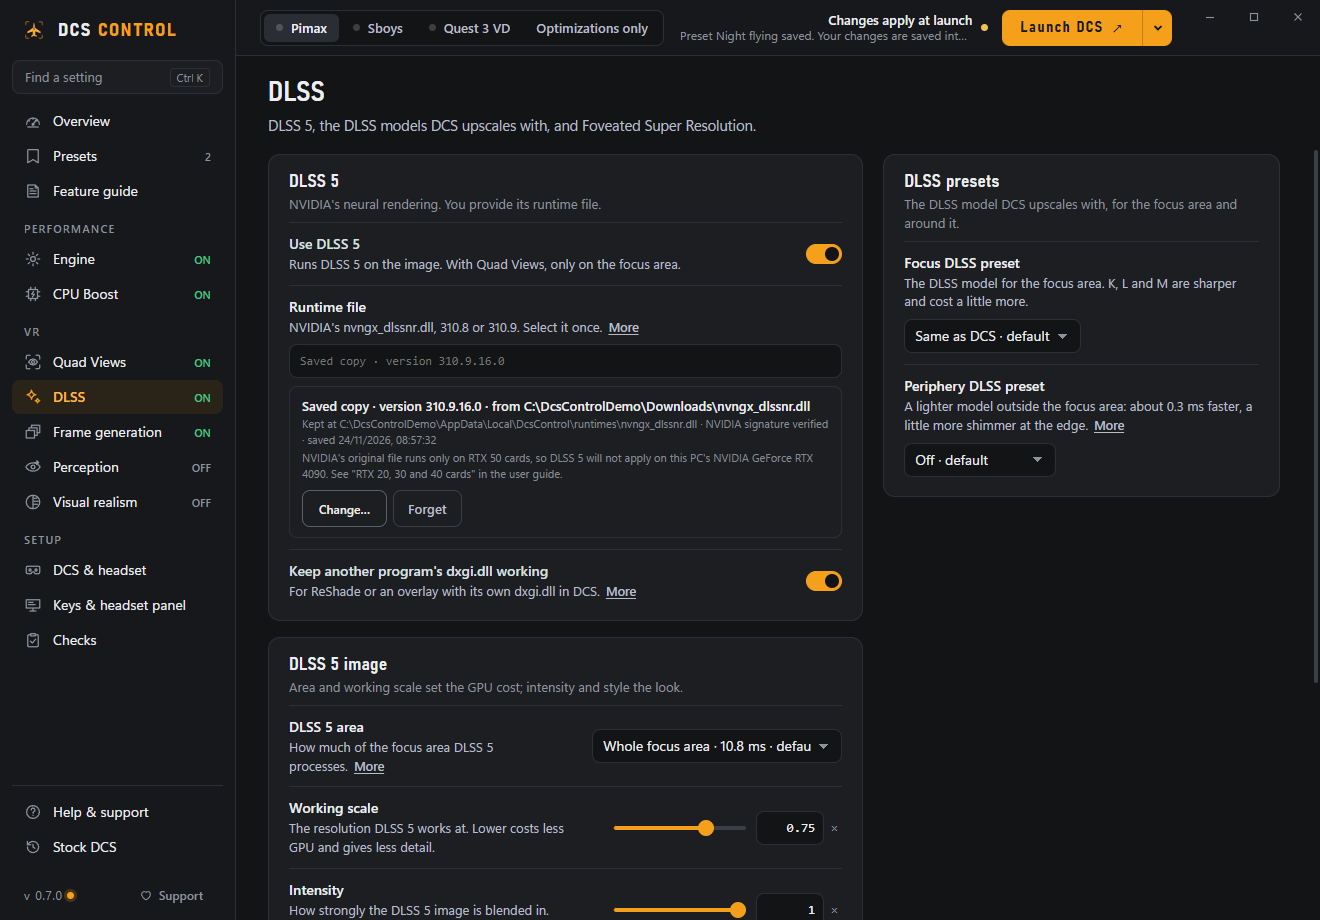
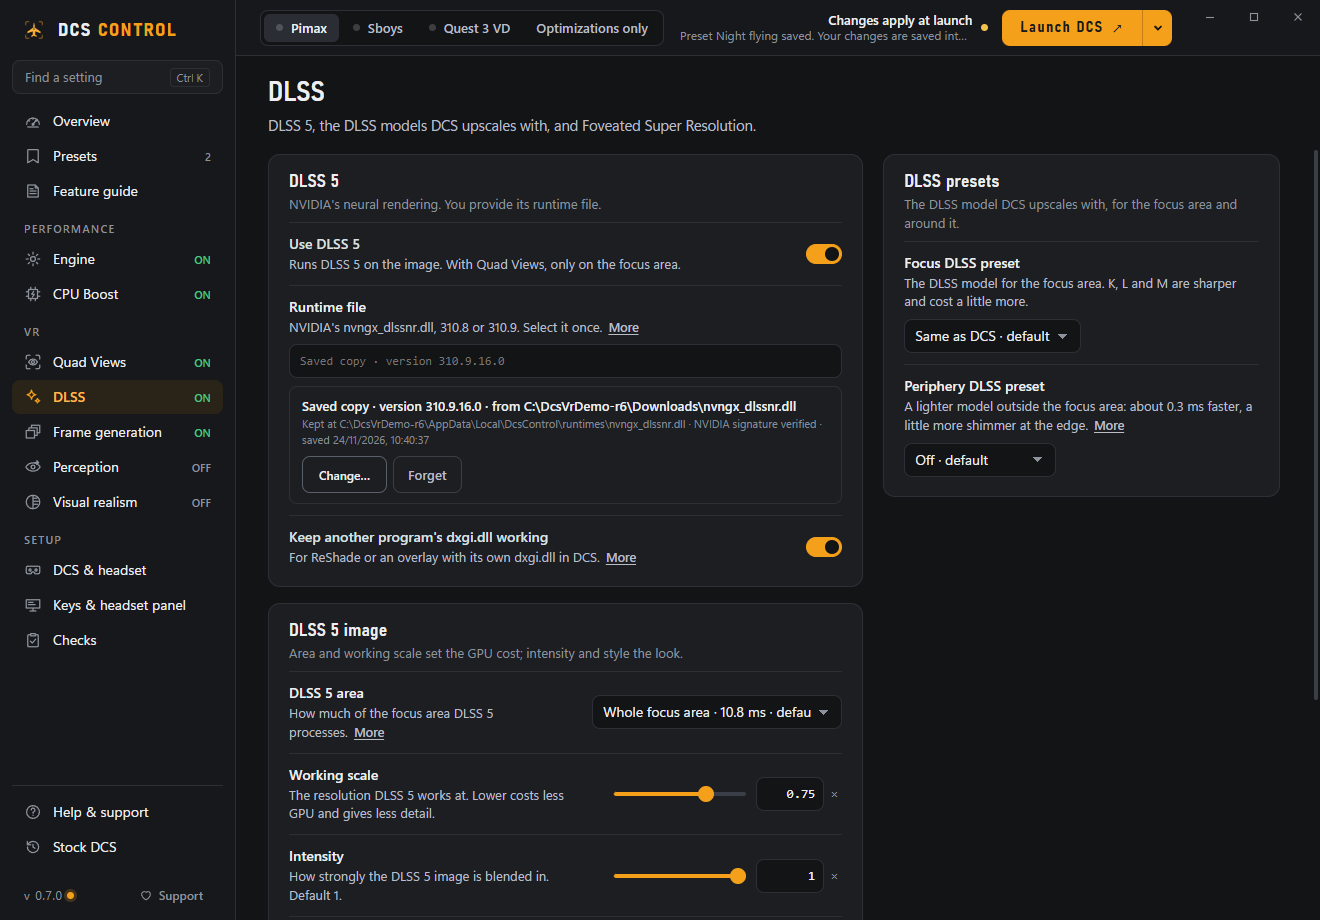
Docs screenshots for 0.7: Perception, Visual realism, Quad Views folds, lower Frame generation; DLSS without "will not apply"
WebVerification: the documentation and video views run on a demo RTX 5080 (the smoke keeps its RTX 4090), the doc
views add five shots, and the video views the 0.7 video's v07-* stills (round 6 list), all off unless
DCSVR_SMOKE_DOC_VIEWS / DCSVR_SMOKE_VIDEO_VIEWS is set. USER_GUIDE.md: image lines for the new shots.

diff --git a/src/DcsVr.App/WebVerification.cs b/src/DcsVr.App/WebVerification.cs
@@ -87,6 +87,8 @@ internal static class WebVerification
             log("Documentation view: " + path);
         }
         controller.Bounds = new System.Drawing.Rectangle(0, 0, 1320, 920); controller.RasterizationScale = 1;
+        // An RTX 50 card, so the DLSS page shows NVIDIA's original runtime as usable (not "will not apply").
+        GpuInfo.Adapters = () => [new(DemoGpu, "NVIDIA", "32.0.15.0")];
         // Pimax Play running; a new profile's default values with every feature checked on the Pimax route (Engine Optimizations too).
         Readiness.ActiveRouteProvider = () => new(null, "Pimax Play is running and SteamVR is not. Use the Pimax route, or start SteamVR first for Sboys.", TrackingKind.Unknown);
         if (neural is not null) await Step("window.dcsUi.saveRuntime("+JsonSerializer.Serialize(neural)+")");
@@ -102,6 +104,13 @@ internal static class WebVerification
         await Shot("quad-views-pimax-play", "foveation", "(b=>{if(b)b.scrollIntoView({block:'center'});})(document.getElementById('pimaxFovea'));");
         await Shot("dlss5-runtime-file", "dlss");
         await Shot("framegen-auto-2x-3x", "framegen");
+        // The lower Frame generation page: Image quality, with the Advanced fold open beside it.
+        await Shot("framegen-image-quality", "framegen", CloseFolds("framegen") + OpenFoldOf("frameGenParallelEyes") + "(s=>{s.scrollTop=s.scrollHeight;})(document.getElementById('scrollArea'));");
+        // Quad Views' folds open: Eye-tracking options at the top, then Hide the focus edge's Fine-tune with Shape and edge.
+        await Shot("quad-views-eye-tracking", "foveation", CloseFolds("foveation") + OpenFoldOf("quadLostGazeEase") + ScrollTo("setting-gaze", "start"));
+        await Shot("quad-views-hide-edge", "foveation", CloseFolds("foveation") + OpenFoldOf("quadGazeGlideMs") + OpenFoldOf("quadRoundFocus") + ScrollTo("setting-quadHideFocusEdge", "start"));
+        await Shot("perception", "pupil", "");
+        await Shot("visual-realism", "visual", "");
         await Shot("engine-optimizations", "engine");
         await Shot("cpu-boost-plan", "boost");
         await Step("window.dcsUi.run('checkReadiness')");
@@ -139,7 +148,7 @@ internal static class WebVerification
         async Task Shot(string name, string? page, string prepare = "")
         {
             if (page is not null) await core.ExecuteScriptAsync("window.dcsUi.navigate("+JsonSerializer.Serialize(page)+");");
-            await core.ExecuteScriptAsync("document.getElementById('toast').hidden=true;document.getElementById('pages')?.scrollTo(0,0);" + prepare);
+            await core.ExecuteScriptAsync("document.getElementById('toast').hidden=true;document.getElementById('scrollArea').scrollTop=0;" + prepare);
             await Task.Delay(300);
             // Always 1920 pixels wide, whatever the desktop's display scaling does to the window's own capture.
             var view = JsonSerializer.Deserialize<double[]>(await core.ExecuteScriptAsync("[innerWidth,innerHeight,devicePixelRatio]"))!;
@@ -148,6 +157,8 @@ internal static class WebVerification
             log($"Video view: {path} ({view[0]} × {view[1]} CSS px)");
         }
         const string Edit = "const edit=(path,value)=>{const f=window.dcsUi.fields.find(x=>x.path===path);if(f.type==='toggle')f.input.checked=value;else f.input.value=value;f.input.dispatchEvent(new Event(f.type==='toggle'||f.type==='select'?'change':'input',{bubbles:true}));};";
+        // An RTX 50 card, so the DLSS page shows NVIDIA's original runtime as usable (not "will not apply").
+        GpuInfo.Adapters = () => [new(DemoGpu, "NVIDIA", "32.0.15.0")];
         controller.Bounds = new System.Drawing.Rectangle(0, 0, 1600, 900);
         var scaled = controller as CoreWebView2Controller; scaled.RasterizationScale = 1.2; scaled.ShouldDetectMonitorScaleChanges = false;
         Readiness.ActiveRouteProvider = () => new(null, "Pimax Play is running and SteamVR is not. Use the Pimax route, or start SteamVR first for Sboys.", TrackingKind.Unknown);
@@ -196,6 +207,7 @@ internal static class WebVerification
         await Shot("v06-visual", "visual");
         await Shot("v06-dlss-periphery", "dlss", "(c=>{if(c)c.scrollIntoView({block:'start'});})(document.getElementById('dlssPresets'));");
         await Step("(()=>{"+Edit+"edit('colorMode','Off');edit('panelGamut',0);edit('gVision',false);edit('peripheryDlssPreset','Off');edit('fpsLimit','Preserve');})()");
+        await Video07(Step, Shot, Edit);
         // The tutorial video (vt-*): DCS & headset with Read settings from this PC, and Guided setup's first step.
         await Shot("vt-setup", "setup");
         await core.ExecuteScriptAsync("window.setupWizard.open(); window.setupWizard.choose({route:'Pimax',features:{quad:true,dlss:true,framegen:true,boost:true}});");
@@ -210,9 +222,88 @@ internal static class WebVerification
         await Step("window.dcsUi.run('refresh',window.dcsUi.draft())");
         await Shot("v-overview-applied", "overview");
         await Shot("v-recovery", "recovery", "(f=>{if(f)f.open=true;})(document.getElementById('originalFiles'));");
+        await Video07Applied(Step, Shot, log);
         await Step("window.dcsUi.run('restore')");
         await Shot("v-recovery-restored", "recovery");
         if (service.Originals.Status() is not { Count: 0, Current: null }) throw new IOException("The video fixture was not restored.");
+    }
+
+    /// <summary>The demo PC's graphics card in the documentation and video views: an RTX 50, where NVIDIA's original DLSS 5
+    /// runtime runs (the smoke itself keeps the verified pipeline's RTX 4090).</summary>
+    private const string DemoGpu = "NVIDIA GeForce RTX 5080";
+    /// <summary>JavaScript: open the folds that hold a setting's row (the setting's own fold first, then any around it).</summary>
+    private static string OpenFoldOf(string path) => "(()=>{const f=window.dcsUi.fields.find(x=>x.path==='"+path+"');for(let b=f.element.closest('details');b;b=b.parentElement.closest('details'))b.open=true;})();";
+    /// <summary>JavaScript: scroll an element into view by id.</summary>
+    private static string ScrollTo(string id, string block = "center") => "(s=>{if(s)s.scrollIntoView({block:'"+block+"'});})(document.getElementById('"+id+"'));";
+    /// <summary>JavaScript: close every fold of a page.</summary>
+    private static string CloseFolds(string page) => "document.querySelectorAll('#page-"+page+" details').forEach(d=>d.open=false);";
+
+    /// <summary>The 0.7 release video's stills (v07-*, artifacts/video/STILLS-TODO.md "0.7 video, round 6"), on the Pimax
+    /// profile with every feature: the new switches and folds, the Quest 3 VD route, then everything put back.</summary>
+    private static async Task Video07(Func<string, Task> step, Func<string, string?, string, Task> shot, string edit)
+    {
+        Task Edits(string calls) => step("(()=>{"+edit+calls+"})()");
+        // Foveated frame generation right under Only when needed, the page scrolled so Method is the first row.
+        await Edits("edit('frameGen','Nvidia');edit('frameGenFactor','Auto');edit('frameGenAdaptiveCadence',true);edit('frameGenFoveated',true);");
+        await shot("v07-framegen-foveated", "framegen", CloseFolds("framegen") + ScrollTo("setting-frameGen", "start"));
+        // Its Advanced fold: Stop generating, Smoothness buffer, Both eyes at once.
+        await shot("v07-framegen-advanced", "framegen", CloseFolds("framegen") + OpenFoldOf("frameGenParallelEyes") + ScrollTo("setting-frameGenParallelEyes"));
+        await Edits("edit('smoothCursor',true);");
+        await shot("v07-framegen-cursor", "framegen", CloseFolds("framegen") + ScrollTo("setting-smoothCursor"));
+        await Edits("edit('smoothCursor',false);");
+        // Quad Views, eye tracked: Hide the focus edge with its Fine-tune fold closed, then open, then Eye-tracking options.
+        await Edits("edit('gaze','EyeTracked');edit('quadHideFocusEdge',true);edit('peripheryStability',true);");
+        await shot("v07-quad-hide-edge", "foveation", CloseFolds("foveation") + ScrollTo("setting-quadHideFocusEdge"));
+        await shot("v07-quad-finetune", "foveation", CloseFolds("foveation") + OpenFoldOf("quadGazeGlideMs") + ScrollTo("setting-quadEdgeMatch"));
+        await shot("v07-quad-eyetracking", "foveation", CloseFolds("foveation") + OpenFoldOf("quadLostGazeEase") + ScrollTo("setting-quadSaccadeTail"));
+        // The Engine page renders again once its status is read: open the fold after that.
+        await step("(()=>{window.dcsUi.navigate('engine');return new Promise(r=>setTimeout(r,900));})()");
+        await shot("v07-engine-gpusavings", null, "setTimeout(()=>{" + OpenFoldOf("engineWaterSkip") + "window.dcsUi.fields.find(x=>x.path==='engineWaterSkip').element.closest('details').scrollIntoView({block:'center'});},120);");
+        await Edits("edit('neuralBrightnessMatch',true);");
+        await shot("v07-dlss-match", "dlss", "(d=>{if(d)d.open=true;})(document.getElementById('neuralAdvanced'));" + ScrollTo("setting-neuralBrightnessMatch"));
+        await Edits("edit('neuralBrightnessMatch',false);edit('foveaSource','Profile');edit('pimaxVerticalOffset',-20);");
+        await shot("v07-quad-vertical-offset", "foveation", CloseFolds("foveation") + ScrollTo("setting-pimaxVerticalOffset"));
+        await Edits("edit('pimaxVerticalOffset',0);edit('foveaSource','PimaxPlay');");
+        // Pimax Play on its Balanced preset (runtime_quadviews_rendering_level 1) for one shot, then the fixture's Custom values again.
+        var pimax = PimaxFovea.SettingsPath; var saved = File.ReadAllText(pimax);
+        File.WriteAllText(pimax, saved.Replace("\"piplay_quadviews_fine_type\":", "\"runtime_quadviews_rendering_level\":1,\"piplay_quadviews_fine_type\":"));
+        await step("window.dcsUi.rereadPimax(false)");
+        await shot("v07-quad-pimax-preset", "foveation", CloseFolds("foveation") + ScrollTo("pimaxFovea"));
+        File.WriteAllText(pimax, saved);
+        await step("window.dcsUi.rereadPimax(false)");
+        // Go back as after an update from 0.6.6 (0.6.7 was never published), without the fixture's newer release.
+        await step("(async()=>{const ui=window.dcsUi;const s=await ui.request('updateStatus',{simulatePrevious:'0.6.6-preview'});ui.updates={...s,update:null};ui.renderUpdates();})()");
+        await shot("v07-support-goback", "support", "window.dcsUi.renderUpdates();");
+        // A DCS stuck in the background, in the top bar of another page.
+        await step("(async()=>{const ui=window.dcsUi;await ui.request('dcsStatus',{simulate:true,stuck:'NoWindow'});await ui.pollDcs();})()");
+        await shot("v07-topbar-end-dcs", "framegen", CloseFolds("framegen"));
+        await step("(async()=>{const ui=window.dcsUi;await ui.request('dcsStatus',{simulate:false});await ui.request('dcsStatus',{stuck:null});await ui.pollDcs();ui.state.dcsRunning=false;ui.refreshWorkflow();})()");
+        // Quest 3 through Virtual Desktop: the route in the top bar, its fixed focus with Hide the focus edge.
+        await step("(()=>{const ui=window.dcsUi;ui.adoptDraft({profile:ui.withFeatures("+JsonData.Serialize(new VrProfile())+",{route:'VirtualDesktop',features:{engine:true,boost:true,quad:true,framegen:true}})});return ui.run('refresh',ui.draft());})()");
+        await shot("v07-vd-overview", "overview", "");
+        await shot("v07-vd-quad", "foveation", CloseFolds("foveation") + ScrollTo("setting-pimaxHorizontalFov"));
+        // Back to the Pimax profile with every feature, as before, for the shots that follow.
+        await step("(()=>{const ui=window.dcsUi;ui.adoptDraft({profile:ui.withFeatures("+JsonData.Serialize(new VrProfile())+",{route:'Pimax',features:{engine:true,boost:true,quad:true,dlss:true,framegen:true}})});return ui.run('refresh',ui.draft());})()");
+        await Edits("edit('depthBoost',true);edit('farDepth',true);edit('peripheryStability',true);edit('fpsLimit','Preserve');");
+    }
+
+    /// <summary>The 0.7 video's stills after Launch DCS (offline): Quad Views with its folds closed while DCS "runs" with
+    /// Live on (LIVE tags), and the Checks "DCS version" line from a module log written into the demo root only.</summary>
+    private static async Task Video07Applied(Func<string, Task> step, Func<string, string?, string, Task> shot, Action<string> log)
+    {
+        await step("(async()=>{const ui=window.dcsUi;await ui.request('dcsStatus',{simulate:true});await ui.pollDcs();await ui.run('refresh',ui.draft());ui.refreshWorkflow();})()");
+        await shot("v07-pages-folds", "foveation", CloseFolds("foveation") + ScrollTo("setting-quadHideFocusEdge"));
+        await step("(async()=>{const ui=window.dcsUi;await ui.request('dcsStatus',{simulate:false});await ui.pollDcs();ui.state.dcsRunning=false;ui.refreshWorkflow();})()");
+        if (Environment.GetEnvironmentVariable("DCSVR_SMOKE_DEMO_ROOT") is not { Length: > 0 } demo) return;
+        var module = EngineOptimizations.ModuleDirectory(Path.Combine(Path.GetFullPath(demo), @"Saved Games\DCS\Config\options.lua"));
+        var moduleLog = Path.Combine(module, "DcsQvCull.log");
+        if (!File.Exists(Path.Combine(module, "DcsQvCull.dll"))) { log("Video view v07-checks-dcs-version skipped: the engine module is not installed in the demo root."); return; }
+        // The line format the module writes on a DCS build the helpers do not know; the fixture's own log is put back after.
+        var before = File.Exists(moduleLog) ? File.ReadAllBytes(moduleLog) : null;
+        File.WriteAllLines(moduleLog,["[14:30:02.101] loader: starting payload", "[14:30:02.380] frame start: DCS 2.9.99.1 is not an analysed build; off"]);
+        await step("window.dcsUi.run('checkReadiness')");
+        await shot("v07-checks-dcs-version", "diagnostics", "(e=>{const r=[...document.querySelectorAll('#page-diagnostics *')].find(x=>x.children.length===0&&x.textContent.trim()==='DCS version');if(r)r.scrollIntoView({block:'center'});})();");
+        if (before is null) File.Delete(moduleLog); else File.WriteAllBytes(moduleLog, before);
     }
 
     /// <summary>GitHub's release list as the update check sees it, served without network: a newer pre-release (this

diff --git a/docs/USER_GUIDE.md b/docs/USER_GUIDE.md
@@ -319,6 +319,8 @@ The app uses its **bundled Quad Views** (Quad-Views-Foveated). This is the one t
   - **Steady focus while looking** (on) — movements under half a degree are ignored, so eye-tracker noise does not make the focus edge shimmer. Real eye movements are followed at once.
   - **Slide back when tracking is lost** (EXPERIMENTAL, on) — when the eye tracker loses your eyes for more than a moment (a long blink, the headset shifting), the focus area slides to the centre and to the fixed focus size over 150 ms instead of jumping. When your eyes are found again it follows them at once.
 
+![Quad Views with the Eye-tracking options open](screenshots/quad-views-eye-tracking.png)
+
 **Focus area** card:
 
 - **Focus area values** — *From Pimax Play (recommended)* (default) or *Set here*.
@@ -342,6 +344,8 @@ The app uses its **bundled Quad Views** (Quad-Views-Foveated). This is the one t
 - **How bundled Quad Views reproduces this** (folded, under Pimax Play's values) shows the conversion and, once DCS has run, the focus size in pixels per eye.
 - **Coverage preview**: the focus area to scale, and how many pixels DCS renders against normal stereo.
 - **Sharpness** card: **Focus sharpening** (0.7; 0 is off), **Periphery contrast** (0.3; brings back some of the local contrast the periphery loses at its lower resolution; raise it slowly, too much makes the periphery shimmer) and **Sharpening fades at the edge** (on). Almost no GPU cost.
+
+![Hide the focus edge with Fine-tune and Shape and edge open](screenshots/quad-views-hide-edge.png)
 
 On the **Quest 3 VD** route Pimax Play is not read and the focus is fixed in the centre: Focus movement, Focus area values and the Eye-tracking options are hidden, and the focus area starts at Horizontal FOV 55%, Vertical FOV 75% (tall enough to keep the instruments sharp), Peripheral Resolution 40% and Center Resolution 100%, which you can change on the page. Switching back to Pimax or Sboys in the same app session gives you the focus values you had before; a profile that started on Quest 3 VD follows Pimax Play again.
 
@@ -413,6 +417,8 @@ The **DCS frame limit** card sets DCS's own limit at launch; Back to stock DCS p
 - **Desktop VSync off** — stops VSync of the desktop DCS window from holding the frame rate back. Headset sync is unaffected.
 - **Use the headset's refresh rate** (on) — Pimax Play: the rate the headset runs at, or ran at last; Sboys: SteamVR's rate. Otherwise **Headset refresh rate** (90 Hz until the headset software reports one) is used.
 
+![Image quality, and the Advanced fold open](screenshots/framegen-image-quality.png)
+
 The **Image quality** card holds how generated frames look:
 
 - **Sharp HUD** (EXPERIMENTAL, off by default; needs frame generation, not Depth boost or Engine Optimizations) — DCS draws the HUD and helmet symbols into the image, so generated frames blend two positions of them and they smear. On: the engine module hands the symbols over separately, frame generation makes the in-between frame from the world alone and puts the symbols of the nearest real frame back. DCS itself moves HUD symbols 20 times a second, so they keep that rhythm instead of smearing. Measured gain is small (by day the sharpest symbols lose about 2 % instead of 5–6 % in the worst moments); it costs about 0.15 ms of GPU time and 160 MB of video memory.
@@ -425,6 +431,8 @@ The **Image quality** card holds how generated frames look:
 - **Before you fly:** turn off other limiters and smoothing that fight frame generation — NVIDIA *Max Frame Rate* / *Background Application Max Frame Rate*, RTSS, Pimax Smart Smoothing, SteamVR motion smoothing. The app does not change these; Checks reminds you.
 
 ### Perception
+
+![Perception page](screenshots/perception.png)
 
 How deep and steady the world looks: **Eye distance**, then **Pupil shift**, **Depth boost** and **Far depth** (experimental, all off by default), then **Status in DCS** (read from the last flight) and **Check in flight** (each feature's key, to compare off and on). Pupil shift and Depth boost need eye tracking, so they are off on the Quest 3 VD route; Far depth needs the bundled Quad Views. Periphery stability is on the [Quad Views](#periphery-stability-experimental) page.
 
@@ -457,6 +465,8 @@ Details: [PERCEPTION.md](PERCEPTION.md#depth-boost).
 On the **Perception** page. It adds depth to distant scenery (about 50 m to 2 km): aircraft, ships and terrain stand out more, and the cockpit is not touched. It needs the bundled Quad Views, but no eye tracking; the engine module measures the depth DCS draws (with Engine Optimizations off it is installed for this alone, in its Perception-only mode). **Strength**: Subtle, Default or Strong; the strength and the in-flight key (Alt+Shift+F8) can be changed while DCS runs, turning it on or off waits for the next launch. The OSD shows "Far depth: ON", or "waiting for engine" until the depth arrives.
 
 ### Visual realism
+
+![Visual realism page](screenshots/visual-realism.png)
 
 How the image looks in the headset, on its own page. Everything is **off by default**. Changes apply with Launch DCS; the **Color mode** key switches color modes in flight. VR flights only. The effects run inside the engine module: with Engine Optimizations off, turning one on installs the module in its Perception-only mode (none of the optimizations run). Times are GPU time per frame. None of these has been judged in the headset yet: try one at a time.
 
